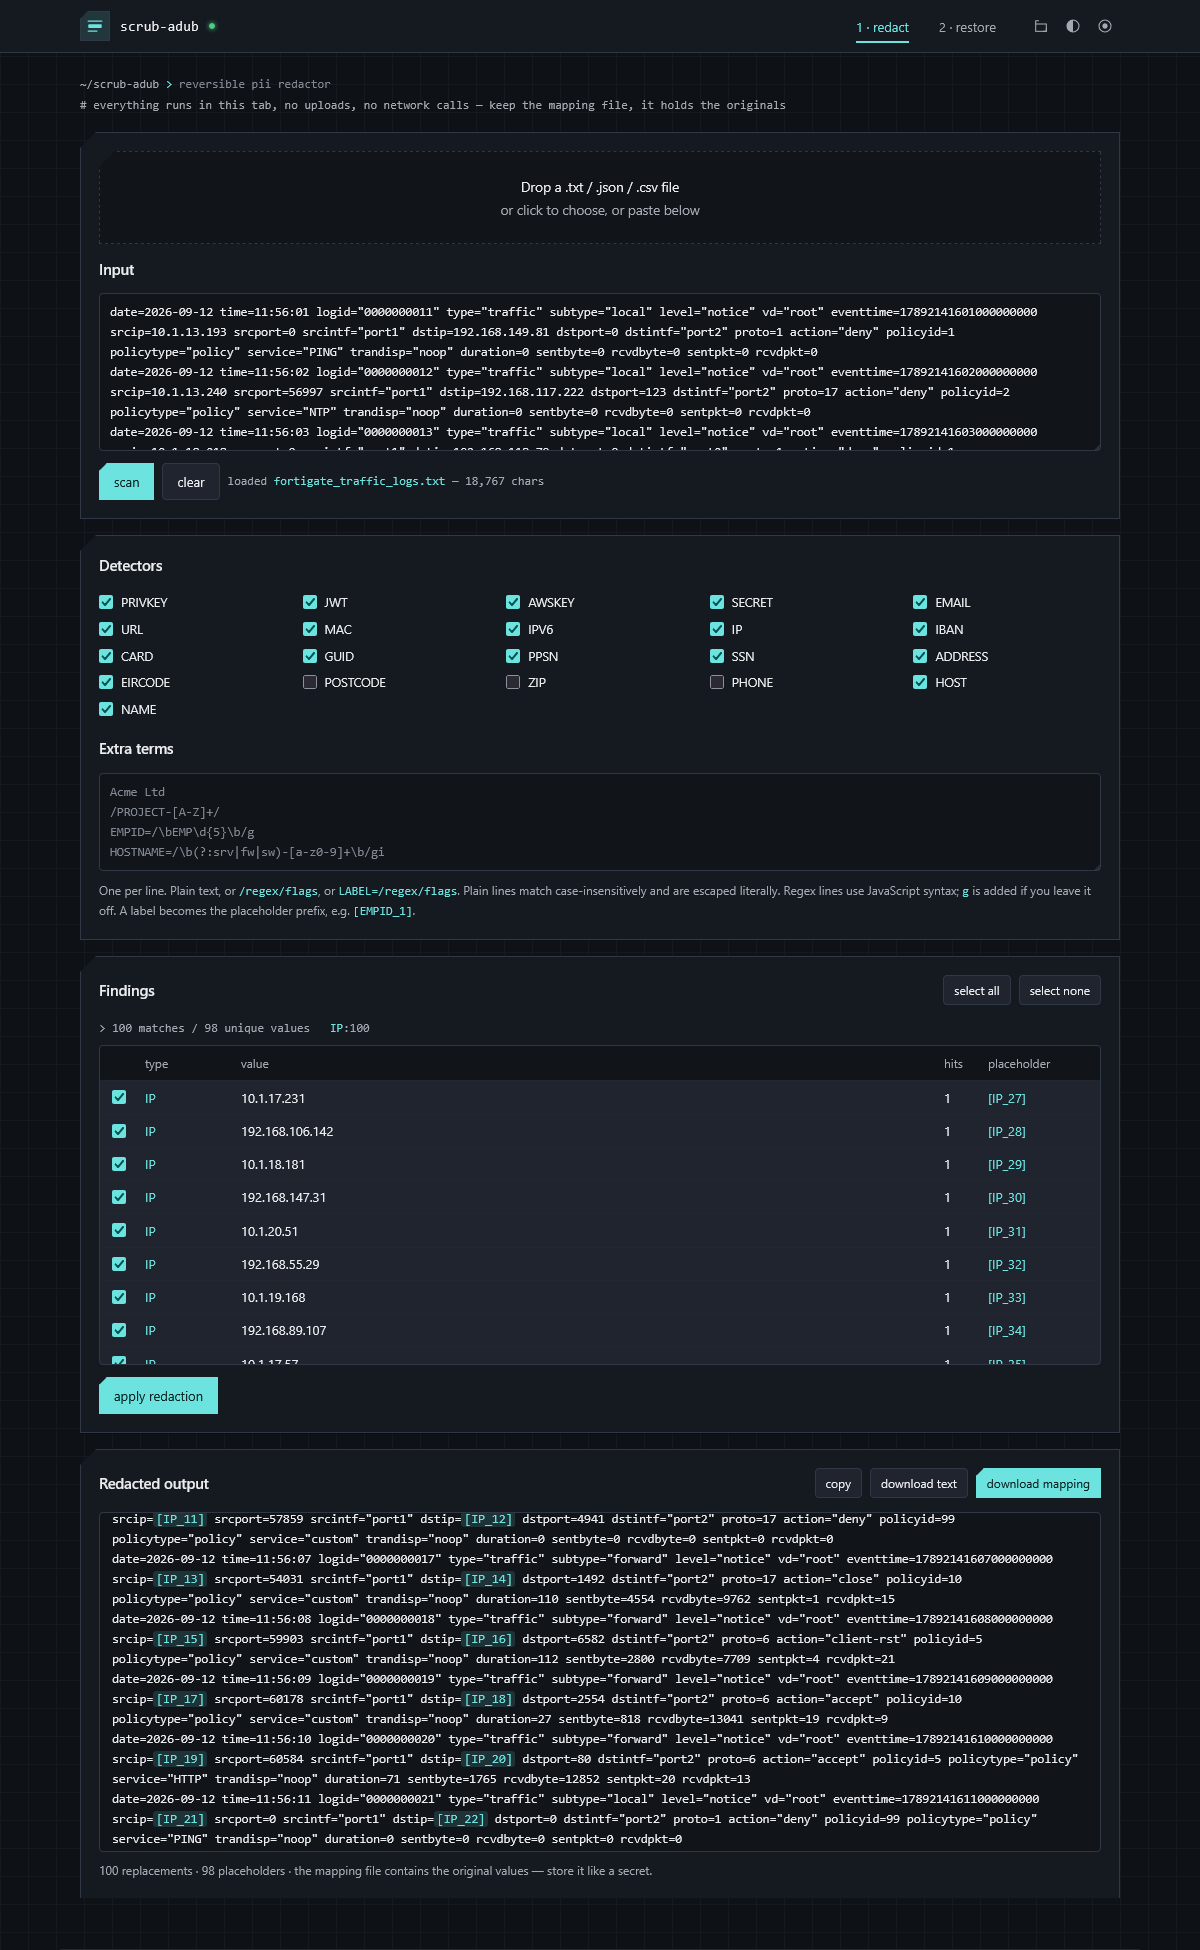
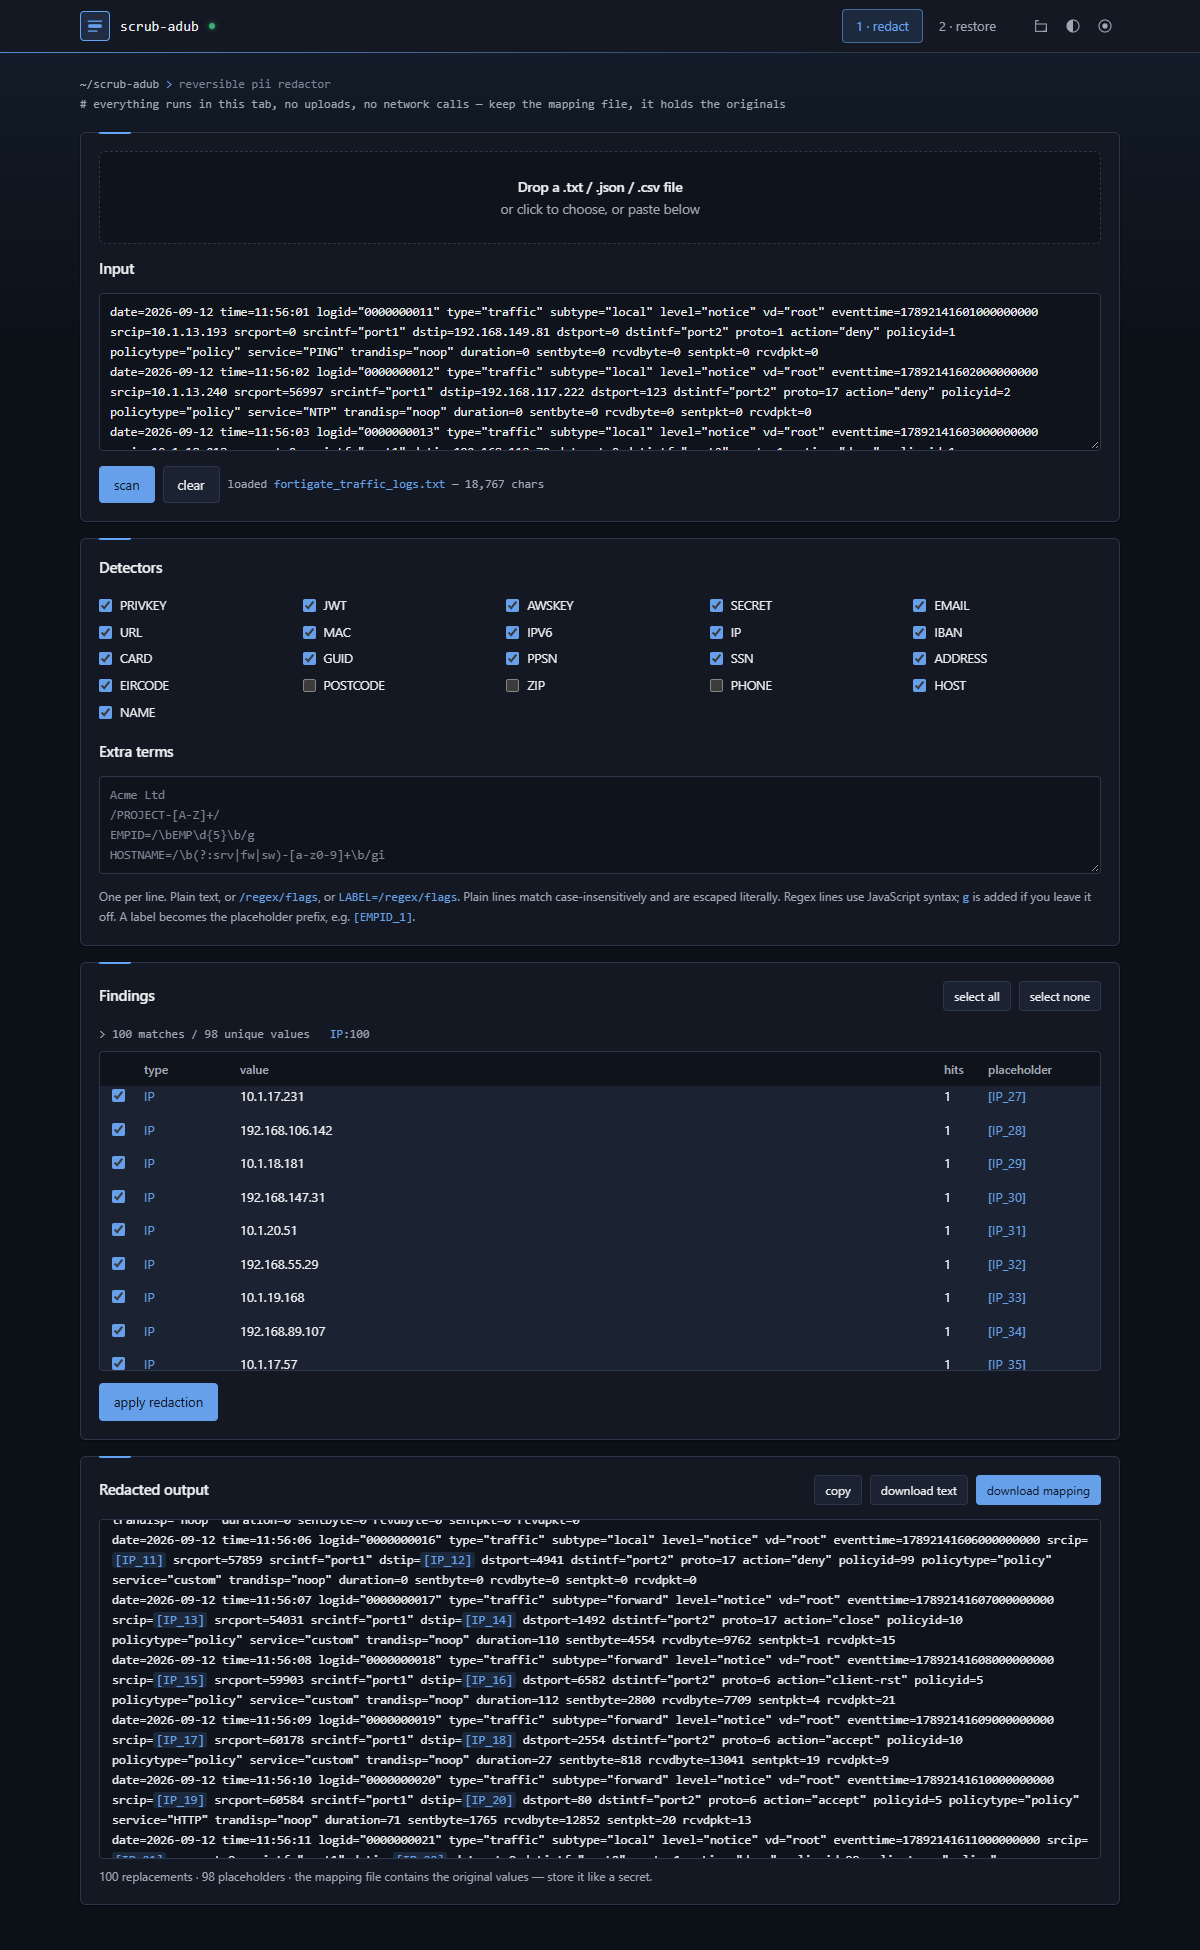
Replace the circuit design with cobalt and make it the default
Cobalt is a navy, blue-ruled design in place of the green circuit board
one. It is now the default and first in the design menu, with Azure as
the default accent. Screenshots retaken in the new default.

diff --git a/index.html b/index.html
@@ -1,5 +1,5 @@
 <!DOCTYPE html>
-<html lang="en" data-design="chamfer" data-mode="dark">
+<html lang="en" data-design="cobalt" data-mode="dark">
 <head>
 <meta charset="UTF-8">
 <meta name="viewport" content="width=device-width, initial-scale=1.0">
@@ -18,7 +18,7 @@
 
    One stylesheet, three independent axes:
 
-     data-design  chamfer | console | circuit | contour
+     data-design  cobalt | chamfer | console | contour
                   shape language, surface hue family, backdrop
                   texture, ornament. This is the "look".
 
@@ -58,15 +58,26 @@
     --ctl:      30px;   /* icon button / logo tile box */
 
     /* Accent defaults, overwritten inline by the picker. */
-    --ah: 178;
-    --ac: 68%;
+    --ah: 214;
+    --ac: 76%;
 }
 
 /* ============================================================
    Designs: hue family per mode group, shape, ornament switches
    ============================================================ */
 
-/* Cut corners, instrument grid. The house design. */
+/* Navy editor chrome, one constant blue rule. The house design. */
+html[data-design="cobalt"] {
+    --hd: 222; --sd: 30%;
+    --hw: 38;  --sw: 28%;
+    --hl: 216; --sl: 28%;
+    --radius: 6px;
+    --radius-sm: 4px;
+    --notch: 0px;
+    --notch-sm: 0px;
+}
+
+/* Cut corners, instrument grid. */
 html[data-design="chamfer"] {
     --hd: 218; --sd: 20%;    /* dark + dusk surfaces */
     --hw: 36;  --sw: 30%;    /* sepia surfaces */
@@ -84,17 +95,6 @@ html[data-design="console"] {
     --hl: 210; --sl: 7%;
     --radius: 0px;
     --radius-sm: 0px;
-    --notch: 0px;
-    --notch-sm: 0px;
-}
-
-/* Board colours, via grid, one constant plating. */
-html[data-design="circuit"] {
-    --hd: 152; --sd: 38%;
-    --hw: 40;  --sw: 34%;
-    --hl: 150; --sl: 8%;
-    --radius: 3px;
-    --radius-sm: 2px;
     --notch: 0px;
     --notch-sm: 0px;
 }
@@ -132,7 +132,7 @@ html[data-mode="dark"] {
     --warn: hsl(41 86% 60%);
     --bad:  hsl(5 85% 66%);
     --ok-ink: hsl(146 60% 8%);
-    --copper: #d3a24a;
+    --cobalt: hsl(214 90% 68%);
 }
 
 /* "Not as dark": same palette lifted off black, for rooms with
@@ -151,7 +151,7 @@ html[data-mode="dusk"] {
     --warn: hsl(41 82% 62%);
     --bad:  hsl(5 82% 68%);
     --ok-ink: hsl(146 60% 9%);
-    --copper: #dcae5c;
+    --cobalt: hsl(214 88% 74%);
 }
 
 /* Warm paper. Bright but low glare. */
@@ -169,7 +169,7 @@ html[data-mode="sepia"] {
     --warn: hsl(32 78% 34%);
     --bad:  hsl(2 68% 44%);
     --ok-ink: hsl(40 40% 97%);
-    --copper: #96681a;
+    --cobalt: hsl(216 62% 38%);
 }
 
 /* Cool white. The print-adjacent one. */
@@ -187,7 +187,7 @@ html[data-mode="light"] {
     --warn: hsl(32 80% 33%);
     --bad:  hsl(2 70% 45%);
     --ok-ink: hsl(150 30% 99%);
-    --copper: #8a6410;
+    --cobalt: hsl(216 72% 42%);
 }
 
 /* ============================================================
@@ -262,13 +262,11 @@ html[data-design="console"] body::before {
         var(--line-soft) 0 1px, transparent 1px 6px);
     opacity: 0.32;
 }
-/* Via holes: a plated ring around a hole the colour of the board. */
-html[data-design="circuit"] body::before {
-    background-image:
-        radial-gradient(circle, var(--line) 1.4px, transparent 1.6px),
-        radial-gradient(circle, var(--bg) 0.7px, transparent 0.9px);
-    background-size: 30px 30px, 30px 30px;
-    opacity: 0.55;
+/* A faint blue light falling from the top edge, like a lit screen. */
+html[data-design="cobalt"] body::before {
+    background-image: linear-gradient(180deg,
+        color-mix(in srgb, var(--cobalt) 9%, transparent), transparent 360px);
+    opacity: 1;
 }
 /* A single soft wash in the current accent, and nothing else. */
 html[data-design="contour"] body::before {
@@ -308,17 +306,15 @@ html[data-design="chamfer"] .chamfer-sm {
     background: var(--card);
     border-bottom: 1px solid var(--line);
 }
-/* Circuit only: the gold contact fingers of a card-edge connector,
-   kept to a hairline so it reads as an edge and not a stripe. */
-html[data-design="circuit"] .topbar::after {
+/* Cobalt only: a blue hairline under the bar that fades out to the
+   right, so it reads as an edge and not a stripe. */
+html[data-design="cobalt"] .topbar::after {
     content: "";
     position: absolute;
-    left: 0; right: 0; bottom: -2px;
-    height: 2px;
-    background: repeating-linear-gradient(90deg,
-        var(--copper) 0, var(--copper) 5px,
-        transparent 5px, transparent 8px);
-    opacity: 0.7;
+    left: 0; right: 0; bottom: -1px;
+    height: 1px;
+    background: linear-gradient(90deg, var(--cobalt), transparent 75%);
+    opacity: 0.8;
 }
 /* Console only: the bar sits on a second hairline, like a rule under
    a header in a terminal UI. Drawn as a shadow, so it takes no space. */
@@ -388,7 +384,7 @@ html[data-design="chamfer"] .logo {
     border-radius: 0;
     clip-path: polygon(8px 0, 100% 0, 100% 100%, 0 100%, 0 8px);
 }
-html[data-design="circuit"] .logo { border-color: var(--copper); }
+html[data-design="cobalt"] .logo { border-color: var(--cobalt); }
 html[data-design="contour"] .logo { border-radius: 50%; }
 @keyframes logo-in {
     from { opacity: 0; transform: scale(0.75); }
@@ -432,7 +428,14 @@ html[data-design="contour"] .tab[aria-selected="true"] { background: var(--accen
 html[data-design="console"] .tab::after,
 html[data-design="contour"] .tab::after { display: none; }
 html[data-design="contour"] .tab { border-radius: 999px; }
-html[data-design="circuit"] .tab[aria-selected="true"]::after { background: var(--copper); }
+/* Cobalt: the selected tab is a boxed chip, like a picker in a toolbar.
+   The border was already there, transparent, so nothing moves. */
+html[data-design="cobalt"] .tab[aria-selected="true"] {
+    color: var(--cobalt);
+    background: color-mix(in srgb, var(--cobalt) 12%, transparent);
+    border-color: color-mix(in srgb, var(--cobalt) 55%, transparent);
+}
+html[data-design="cobalt"] .tab::after { display: none; }
 
 /* ---------- Menus: design, mode, accent ---------- */
 .bar-tools { display: flex; align-items: center; gap: 2px; flex: 0 0 auto; }
@@ -510,11 +513,12 @@ html[data-design="circuit"] .tab[aria-selected="true"]::after { background: var(
 .opt[data-set="console"] .dsw {
     background-image: repeating-linear-gradient(180deg, var(--fg-faint) 0 1px, transparent 1px 4px);
 }
-.opt[data-set="circuit"] .dsw {
-    border-radius: 2px;
-    background-image: radial-gradient(circle, var(--fg-faint) 1.2px, transparent 1.4px);
-    background-size: 8px 8px;
-    background-position: 1px 1px;
+.opt[data-set="cobalt"] .dsw {
+    border-radius: 3px;
+    background-image: linear-gradient(90deg, var(--fg-faint) 0 60%, transparent 60%);
+    background-size: 100% 1px;
+    background-repeat: no-repeat;
+    background-position: 0 4px;
 }
 .opt[data-set="contour"] .dsw { border-radius: 50%; }
 
@@ -648,16 +652,15 @@ html[data-design="console"] .panel::before {
     background: var(--accent);
     opacity: 0.55;
 }
-/* Circuit: a fiducial in the corner, the way a board marks its own
-   orientation. Sits in the padding, never in the content. */
-html[data-design="circuit"] .panel::before {
+/* Cobalt: a short blue rule on the top edge, like the marker on an
+   active editor tab. Sits on the border, never in the content. */
+html[data-design="cobalt"] .panel::before {
     content: "";
     position: absolute;
-    top: 6px; right: 6px;
-    width: 7px; height: 7px;
-    border: 1.5px solid var(--copper);
-    border-radius: 50%;
-    opacity: 0.65;
+    top: -1px; left: var(--pad);
+    width: 32px; height: 2px;
+    background: var(--cobalt);
+    border-radius: 0 0 2px 2px;
 }
 @media print { .panel { clip-path: none !important; } .panel::before { display: none; } }
 
@@ -946,7 +949,7 @@ td .field { padding: 5px 8px; }
         --line: #999999; --line-soft: #cccccc;
         --fg: #111111; --fg-dim: #555555; --fg-faint: #777777;
         --accent: #333333; --accent-soft: transparent; --accent-ink: #ffffff;
-        --copper: #555555;
+        --cobalt: #555555;
         --shadow: none; --shadow-lift: none;
     }
     body::before { display: none !important; }
@@ -1066,6 +1069,11 @@ textarea.field { min-height: 90px; }
                 </button>
                 <div class="menu" id="designMenu" role="menu" hidden>
                     <div class="menu-title">Design</div>
+                    <button class="opt" role="menuitemradio" aria-checked="false" data-set="cobalt">
+                        <span class="dsw" aria-hidden="true"></span>
+                        <span class="lbl">Cobalt<small>navy chrome, blue rule, soft corners</small></span>
+                        <span class="tick" aria-hidden="true">&check;</span>
+                    </button>
                     <button class="opt" role="menuitemradio" aria-checked="false" data-set="chamfer">
                         <span class="dsw" aria-hidden="true"></span>
                         <span class="lbl">Chamfer<small>cut corners, instrument grid</small></span>
@@ -1074,11 +1082,6 @@ textarea.field { min-height: 90px; }
                     <button class="opt" role="menuitemradio" aria-checked="false" data-set="console">
                         <span class="dsw" aria-hidden="true"></span>
                         <span class="lbl">Console<small>square, graphite, scan rules</small></span>
-                        <span class="tick" aria-hidden="true">&check;</span>
-                    </button>
-                    <button class="opt" role="menuitemradio" aria-checked="false" data-set="circuit">
-                        <span class="dsw" aria-hidden="true"></span>
-                        <span class="lbl">Circuit<small>board colours, via grid, copper</small></span>
                         <span class="tick" aria-hidden="true">&check;</span>
                     </button>
                     <button class="opt" role="menuitemradio" aria-checked="false" data-set="contour">
@@ -1138,11 +1141,11 @@ textarea.field { min-height: 90px; }
                     <div class="wheel-wrap">
                         <div class="wheel" id="wheel" tabindex="0" role="slider"
                              aria-label="Accent colour wheel. Left and right change hue, up and down change intensity."
-                             aria-valuemin="0" aria-valuemax="359" aria-valuenow="178" aria-valuetext="Teal">
+                             aria-valuemin="0" aria-valuemax="359" aria-valuenow="214" aria-valuetext="Azure">
                             <span class="wheel-dot" id="wheelDot" aria-hidden="true"></span>
                         </div>
                         <div class="accent-foot">
-                            <span>Accent: <span class="now" id="accentNow">Teal</span></span>
+                            <span>Accent: <span class="now" id="accentNow">Azure</span></span>
                             <label class="hexin" title="Match a brand colour exactly. The lightness is still set per mode.">#<input
                                 type="text" class="field" id="accentHex" maxlength="7" placeholder="2ec4b6"
                                 spellcheck="false" autocomplete="off" aria-label="Accent colour as hex"></label>
@@ -1321,7 +1324,7 @@ function SAY(m) {
        ============================================================ */
     const root = document.documentElement;
 
-    const DESIGNS = ["chamfer", "console", "circuit", "contour"];
+    const DESIGNS = ["cobalt", "chamfer", "console", "contour"];
     const MODES   = ["dark", "dusk", "sepia", "light"];
 
     /* Hue plus chroma. Kept clear of the green, amber and red that --ok,
@@ -1337,7 +1340,10 @@ function SAY(m) {
         { id: "slate",  name: "Slate",  h: 210, c: 18 }
     ];
 
-    let accent = { h: 178, c: 68, name: "Teal" };
+    /* Azure suits the default cobalt design. */
+const DEFAULT_ACCENT = ACCENTS.find(a => a.id === "azure");
+
+let accent = { h: DEFAULT_ACCENT.h, c: DEFAULT_ACCENT.c, name: DEFAULT_ACCENT.name };
 
     /* ---------- keeping an arbitrary hue readable ----------
        HSL lightness is not perceptual: hsl(178 68% 40%) and
@@ -1609,7 +1615,7 @@ function SAY(m) {
     (() => {
         let a = null;
         try { a = JSON.parse(ST.get("accent")); } catch (e) {}
-        applyAccent(a && isFinite(a.h) ? a : ACCENTS[0], false);
+        applyAccent(a && isFinite(a.h) ? a : DEFAULT_ACCENT, false);
     })();
 })();
 /* ---------- tabs ---------- */

diff --git a/README.md b/README.md
@@ -163,9 +163,9 @@ one never resets the others.
 
 | Design | Shape | Backdrop |
 |---|---|---|
-| `chamfer` | Cut corners | Instrument grid. The default |
+| `cobalt` | Slight radius, navy | Blue glow from the top, blue edge rules. The default |
+| `chamfer` | Cut corners | Instrument grid |
 | `console` | Square, graphite | Horizontal scan rules |
-| `circuit` | Slight radius, board green | Via holes, copper edge |
 | `contour` | Soft radii, violet | A single accent wash |
 
 **Mode** sets the lightness ramp only, and every design supports every mode:
